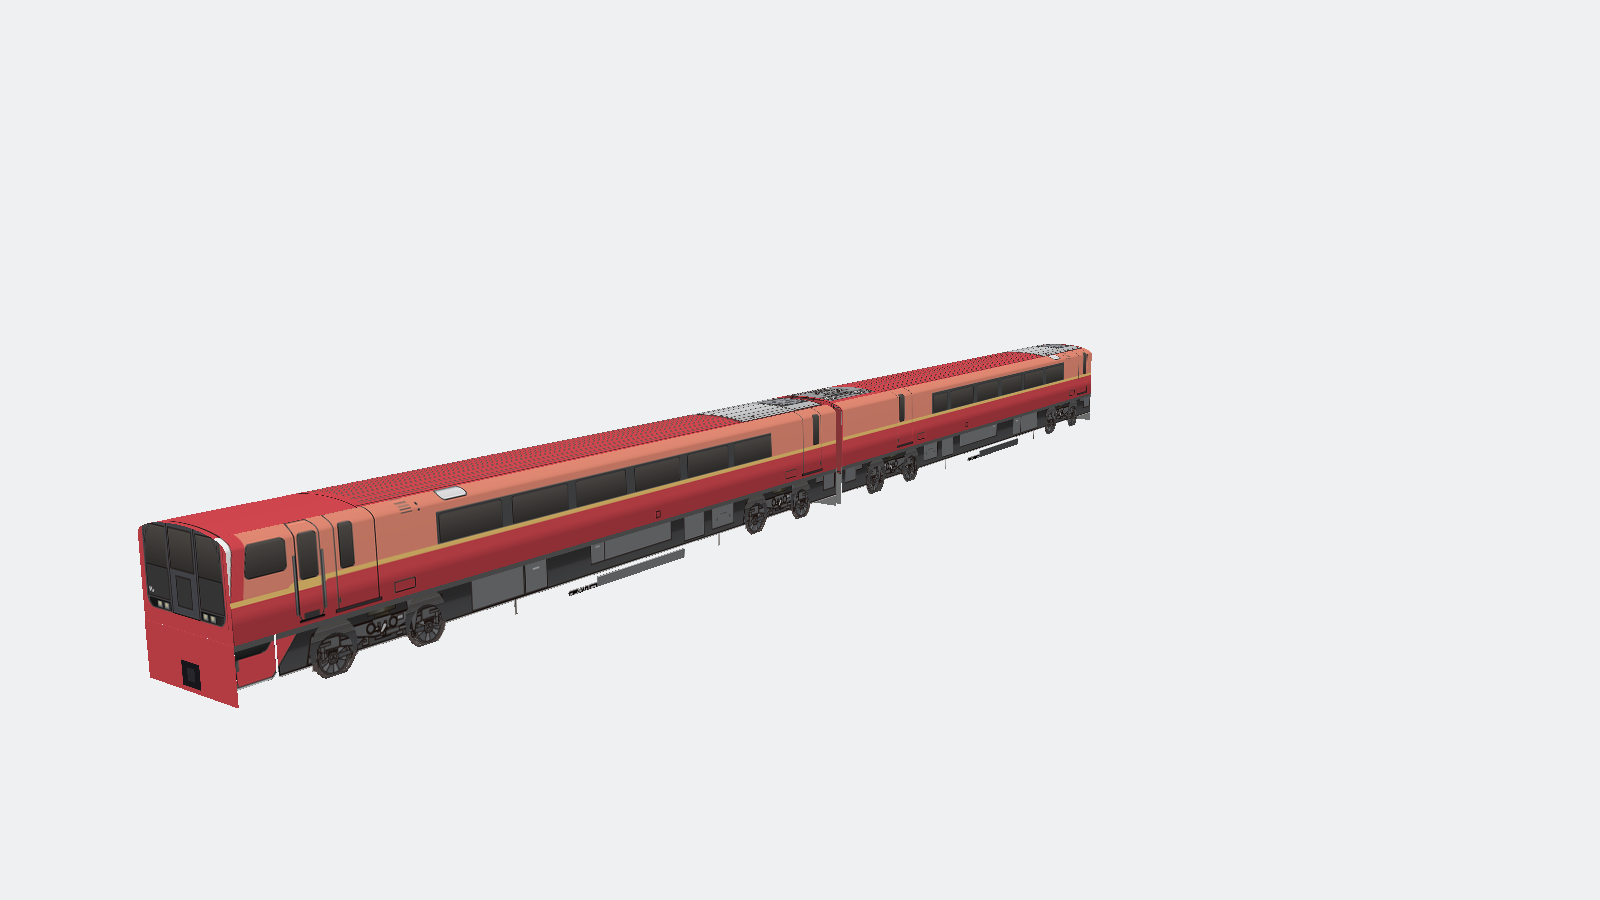
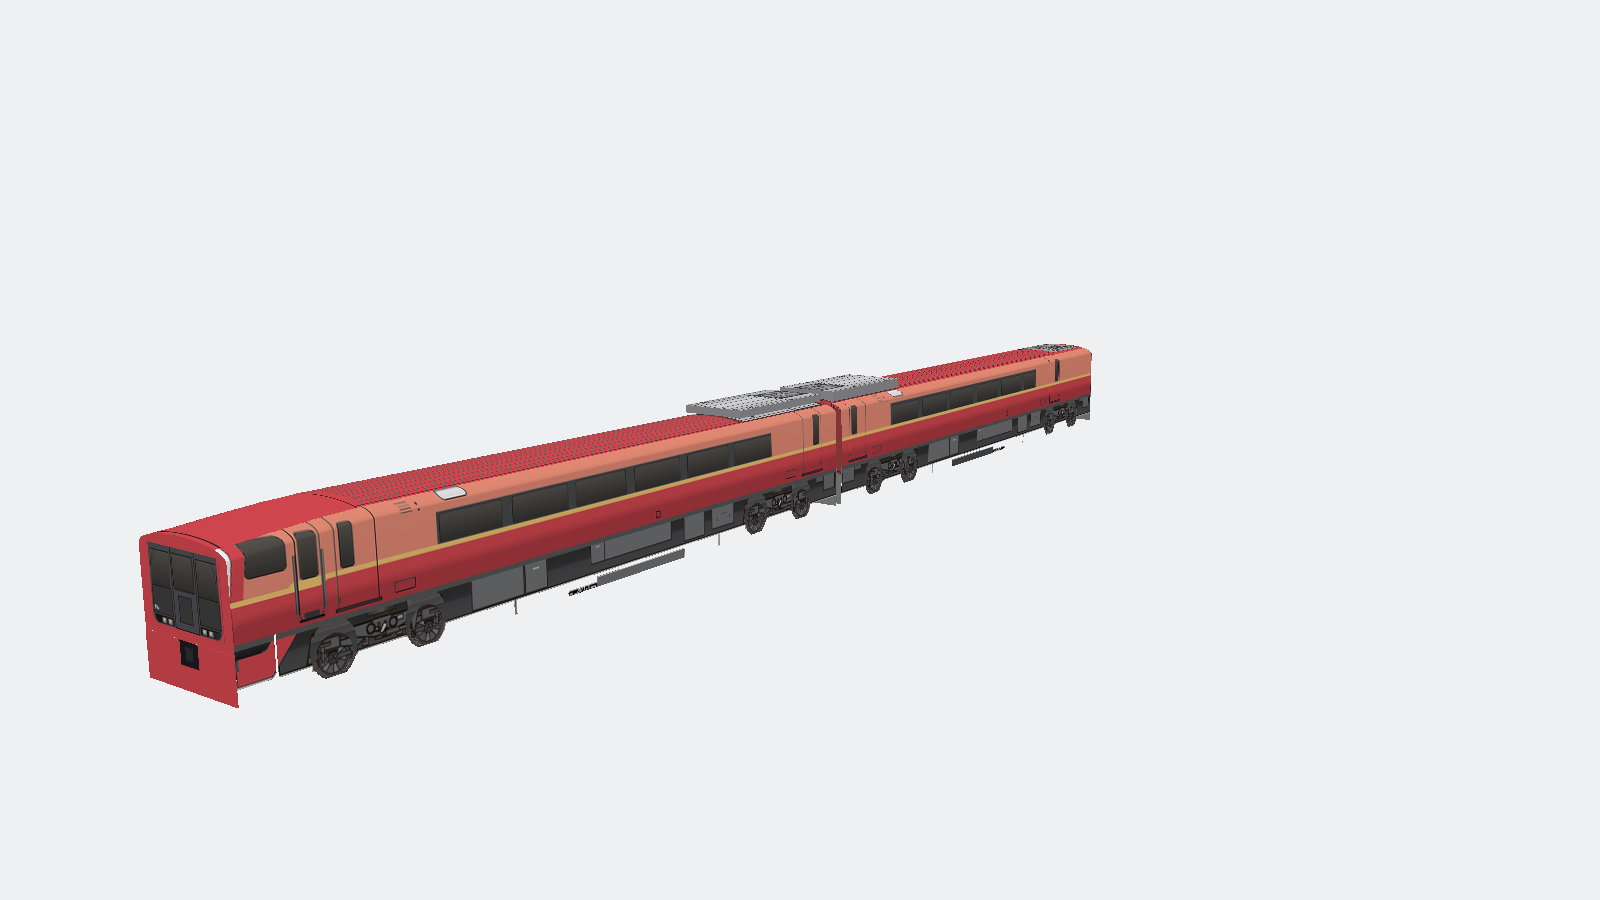
Refresh e253-1000 card (windshield-approach repair): 50a7a5c4+7a2b9d40; post-fix images only
car1 D1 nose slope (face top y3.06) + face retextured from drawing D (0.88x, band y1.20-2.80, fixes redo band flush with face top) + D2 AC box + skirt coupler box up 0.40 m (0f621478), AC box bottom sunk y3.28->y3.16 to seal 8 cm slit (50a7a5c4); car2 consist flip (corrects backwards assembly) + same D2 AC box (7a2b9d40). R5 + summary cards, shared images r5_1.png (flip-aware oblique, final) / r5_2.png (face close-up). PLAIN renderer does not read flip -- images are the builders' flip-aware renders, do not re-render with PLAIN.

Changed region(s): [[0.4375, 0.3733, 0.6875, 0.56], [0.0625, 0.56, 0.2188, 0.7778]]

diff --git a/mc-review-rework5-20261127/index.html b/mc-review-rework5-20261127/index.html
@@ -146,12 +146,12 @@ ul{margin:6px 0} li{font-size:14px;line-height:1.6} a{color:#93c5fd}
 <section class="card" id="car-34" data-num="34" data-slug="jr-east-e253-1000" data-orig="第一批 #113" data-status="pushed">
   <div class="chead"><span class="num">#34</span> <span class="orig">汇总页 #34 · 第一批 #113</span> <span class="slug">jr-east-e253-1000</span>
   <span class="badge pushed">✅ 已推</span></div>
-  <div class="pushline">✅ <b>已推</b>　提交 <code>370f0ed4</code>（models-pipeline）</div><div class="cmeta">类别：其他：你这个司机端的这个贴图一看就不对的去图纸上面重新截重新搞结合现实中的图（第五轮）</div>
+  <div class="pushline">✅ <b>已推</b>　提交 <code>50a7a5c4</code>（car1）＋<code>7a2b9d40</code>（car2）（models-pipeline）</div><div class="cmeta">类别：其他：你这个司机端的这个贴图一看就不对的去图纸上面重新截重新搞结合现实中的图（第五轮）</div>
   <div class="cnote"><b>MC 返工原因：</b>其他：你这个司机端的这个贴图一看就不对的去图纸上面重新截重新搞结合现实中的图</div>
   <div class="cnote"><b>原始理由：</b>贴图颠倒</div>
   <div class="cnote"><b>根因：</b>R4 只裁切＋翻 JR 标志：行先框仍是大方块压玻璃、黑带过低、灰槽浮在红脸上、裙顶 X 带未动。</div>
-  <div class="cnote"><b>修法：</b>司机面按图纸网比例均匀重贴去拉伸：黑带 368×190→338×352，带底 y2.12→y1.31 m，显示纵横比 3.00→1.49（NCC 0.9960）。</div>
-  <div class="warnline">⚠ 司机面已按图纸网比例均匀重贴（黑带 338×352、带底 y1.31 m，显示纵横比 1.49）；R5 锚点“带底 y2.30”已被推翻。存储图为倒置（原 UV 映射），渲染正确。</div>
+  <div class="cnote"><b>修法（本次，MC 16:14 指令，按 485 风挡办法）：</b>car1 D1 鼻端坡度（脸顶 y3.06，平顶 y3.28 自 z3.23 m 起）＋司机面按图纸 D 原图 0.88× 均匀重贴（带 1.60×2.38 m、带顶 y2.80／带底 y1.20，修正 redo 版带贴顶 y1.52–3.28 的错误；NCC 0.9960）＋D2 空调盒（16.2–20.3 m、凸出 0.22 m，盒顶 y3.50）；car2 consist 加 flip 纠正整辆装反＋同规格 D2 空调盒（贴 car1 端）；裙板黑盒上移 0.40 m 至 y0.50–1.00 m。car1 主提交 0f621478；其后 follow-up 把 car1 空调盒底 y3.28→y3.16，密封 8 cm 透光缝（端面像素 0 差异）。</div>
+  <div class="warnline">⚠ 本次修后带顶 y2.80／带底 y1.20（redo 版带贴顶的错误已修正）；car2 已 flip，站内显示为准——审核页 PLAIN 渲染器不读 flip，本页斜视图为施工专员 flip-aware 渲染（car2 银盒在贴 car1 端、灰弓座方在远端），切勿用 PLAIN 重渲。car1 空调盒透光缝已密封（盒底 y3.16）。</div>
   <div class="cimg"><img loading="lazy" src="img/jr-east-e253-1000_r5_1.png" alt="jr-east-e253-1000 修后（本次重做）——斜视角" onerror="this.parentElement.classList.add('imgerr');this.outerHTML='<div class=\'noimg\'>图加载失败</div>'"><div class="cap">修后（本次重做）——斜视角</div></div>
   <div class="cev"><div class="cevlab">🔍 司机端端面</div><img loading="lazy" src="img/jr-east-e253-1000_r5_2.png" alt="jr-east-e253-1000 特写"></div>
   <div class="cbtns">

diff --git a/mc-review-rework-all-20261127/index.html b/mc-review-rework-all-20261127/index.html
@@ -620,7 +620,7 @@ code{font-size:12px;word-break:break-all}
   <span class="badge ok">✅ 已推</span></div>
   <div class="cmeta">其他：司机端贴图错误（第五轮）</div>
   <div class="cquote">💬 MC 原话：贴图颠倒</div>
-  <div class="cinfo"><b>根因：</b>R4 只裁切＋翻 JR 标志：行先框仍是大方块压玻璃、黑带过低、灰槽浮在红脸上、裙顶 X 带未动。<br><b>修法：</b>司机面按图纸网比例均匀重贴去拉伸：黑带 368×190→338×352，带底 y2.12→y1.31 m，显示纵横比 3.00→1.49（NCC 0.9960）。<br><b>提交：</b><code>370f0ed4</code></div>
+  <div class="cinfo"><b>根因：</b>R4 只裁切＋翻 JR 标志：行先框仍是大方块压玻璃、黑带过低、灰槽浮在红脸上、裙顶 X 带未动。<br><b>修法（本次，MC 16:14 指令，按 485 风挡办法）：</b>car1 D1 鼻端坡度（脸顶 y3.06，平顶 y3.28 自 z3.23 m 起）＋司机面按图纸 D 原图 0.88× 均匀重贴（带 1.60×2.38 m、带顶 y2.80／带底 y1.20，修正 redo 版带贴顶 y1.52–3.28 的错误；NCC 0.9960）＋D2 空调盒（16.2–20.3 m、凸出 0.22 m，盒顶 y3.50）；car2 consist 加 flip 纠正整辆装反＋同规格 D2 空调盒（贴 car1 端）；裙板黑盒上移 0.40 m 至 y0.50–1.00 m。car1 主提交 0f621478；其后 follow-up 把 car1 空调盒底 y3.28→y3.16，密封 8 cm 透光缝（端面像素 0 差异）。<br><b>提交：</b><code>50a7a5c4</code>（car1）＋<code>7a2b9d40</code>（car2）<br><b>注意：</b>car2 已 flip，站内显示为准；本页斜视图为施工专员 flip-aware 渲染（car2 银盒在贴 car1 端、灰弓座方在远端），切勿用 PLAIN 渲染器重渲。</div>
   
   <div class="cimg"><img loading="lazy" src="../mc-review-rework5-20261127/img/jr-east-e253-1000_r5_1.png" alt="jr-east-e253-1000 修后（本次重做）——斜视角" onerror="this.parentElement.classList.add('imgerr');this.outerHTML='<div class=\'noimg\'>图加载失败</div>'"><div class="ccap">修后（本次重做）——斜视角</div></div>
   <div class="cev"><div class="cevlab">🔍 司机端端面</div><img loading="lazy" src="../mc-review-rework5-20261127/img/jr-east-e253-1000_r5_2.png" alt="jr-east-e253-1000 特写"></div>
